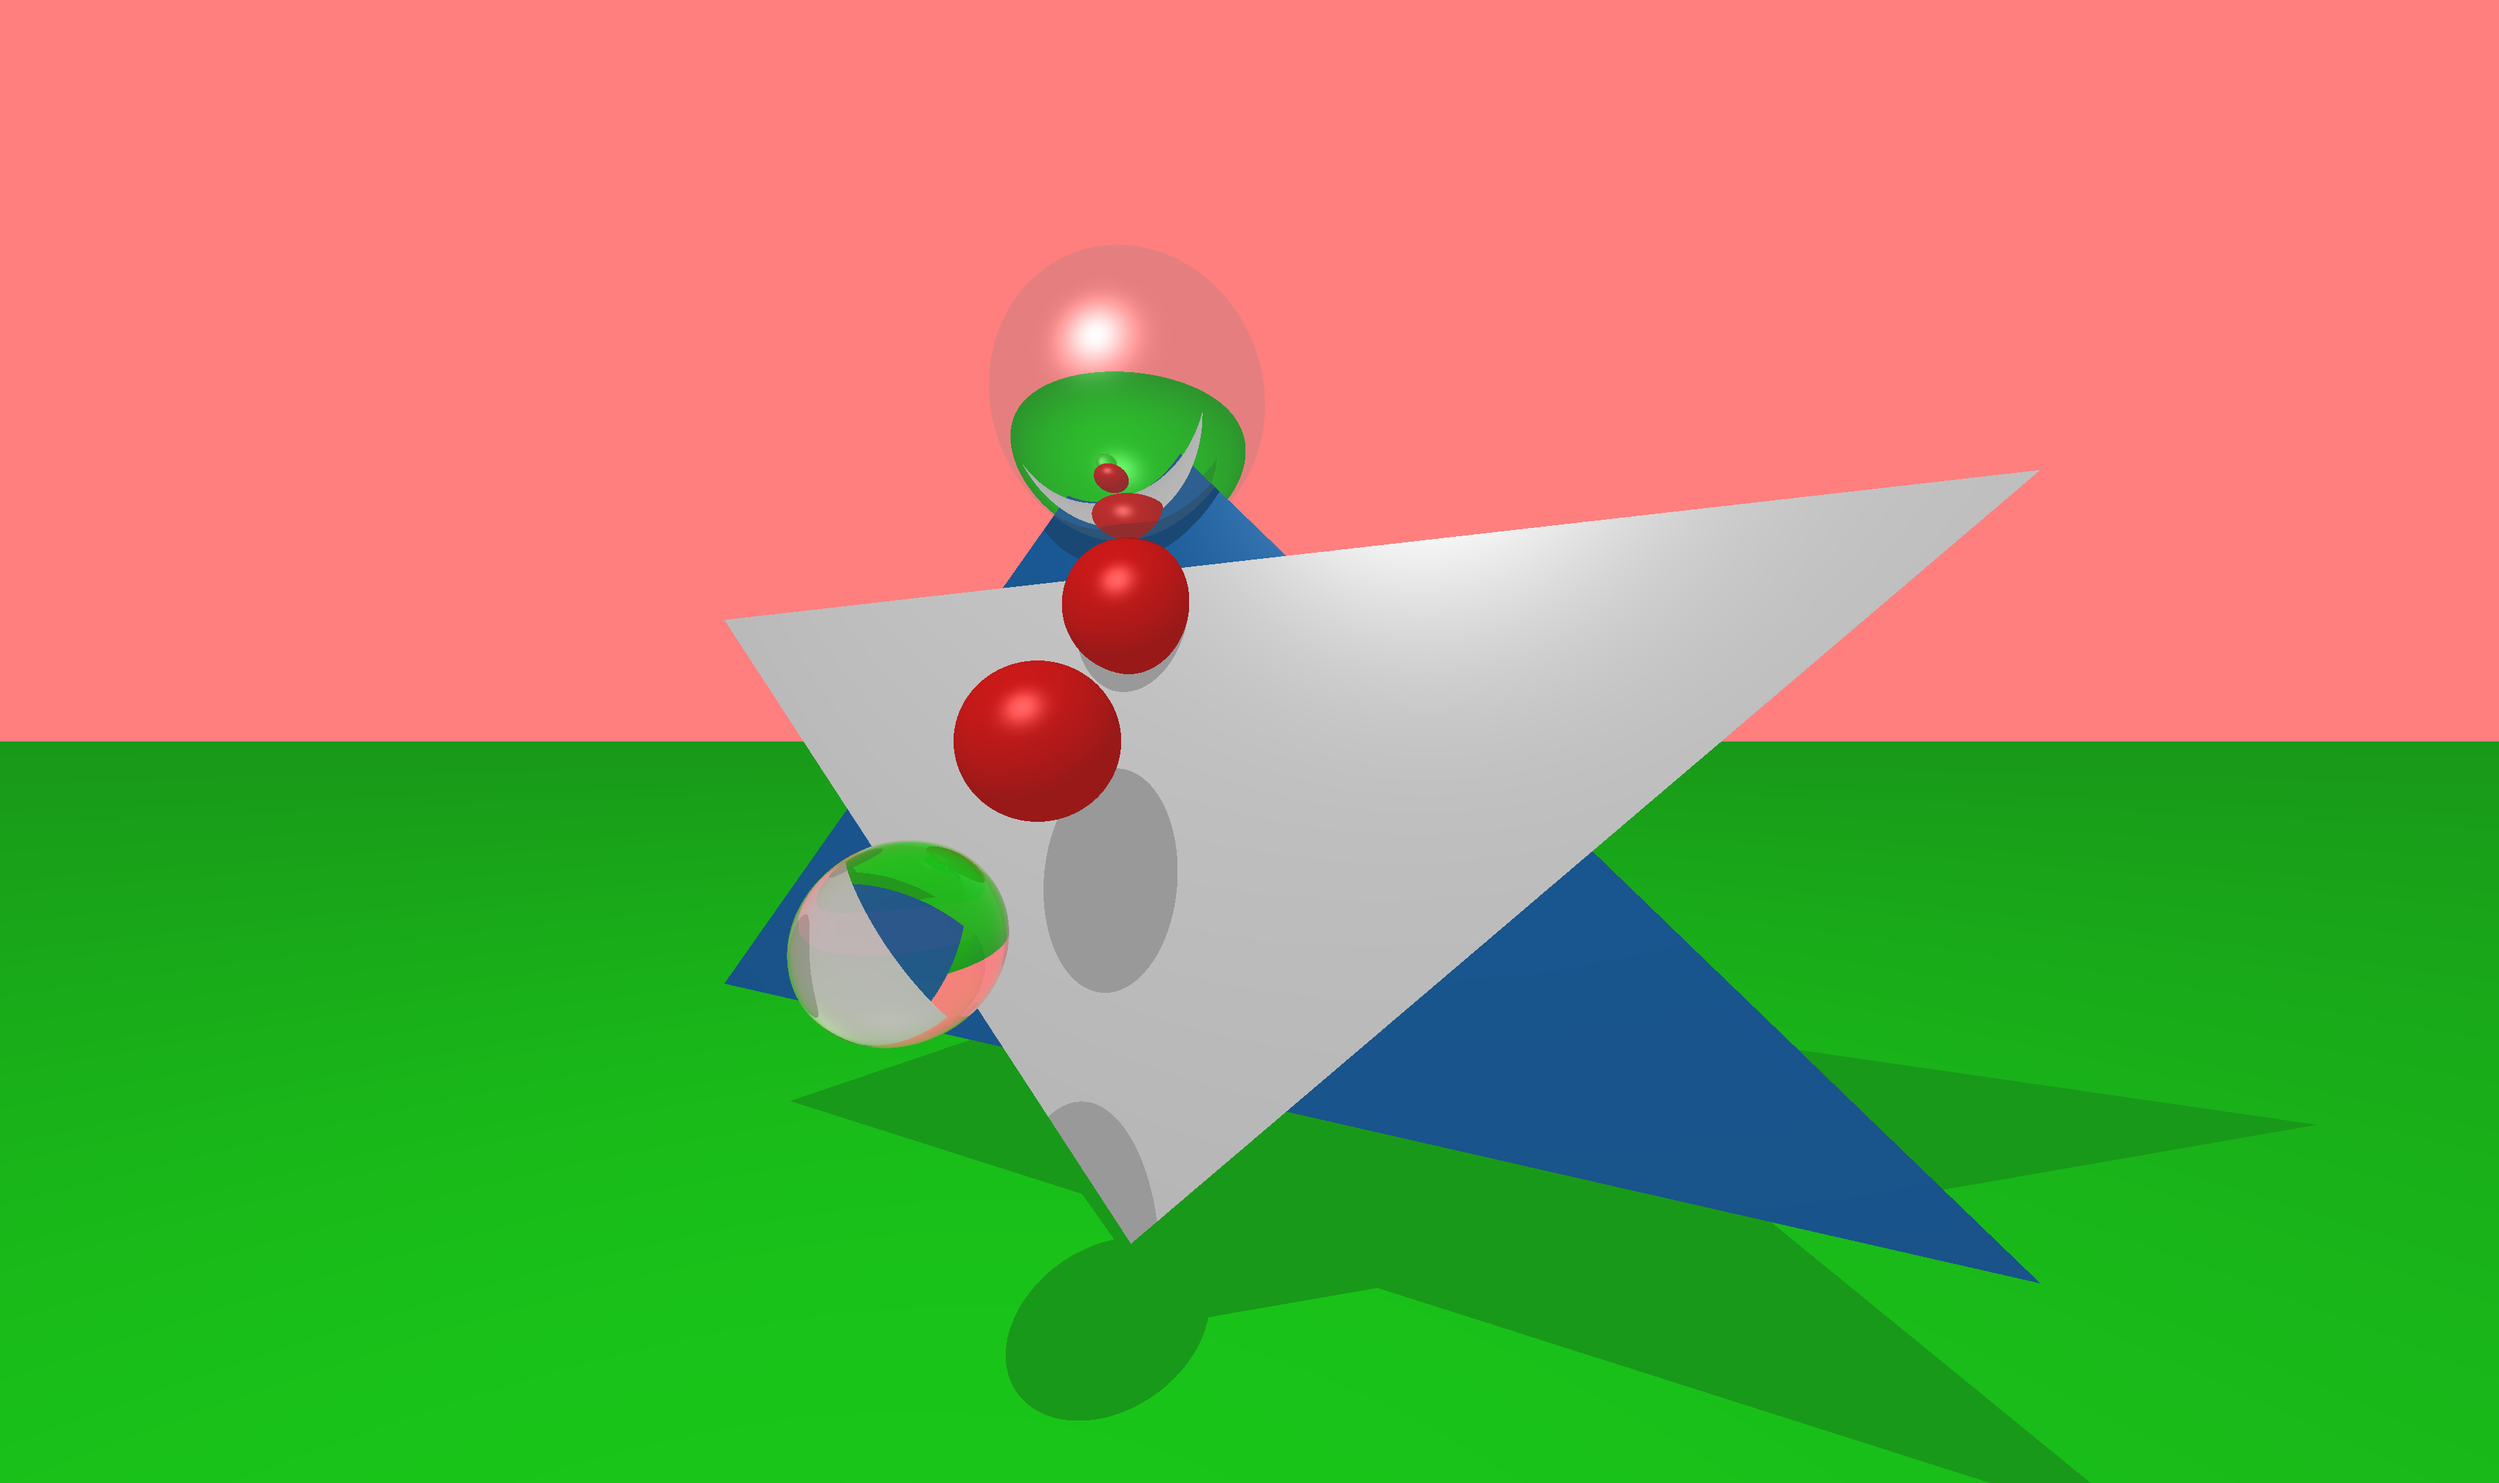
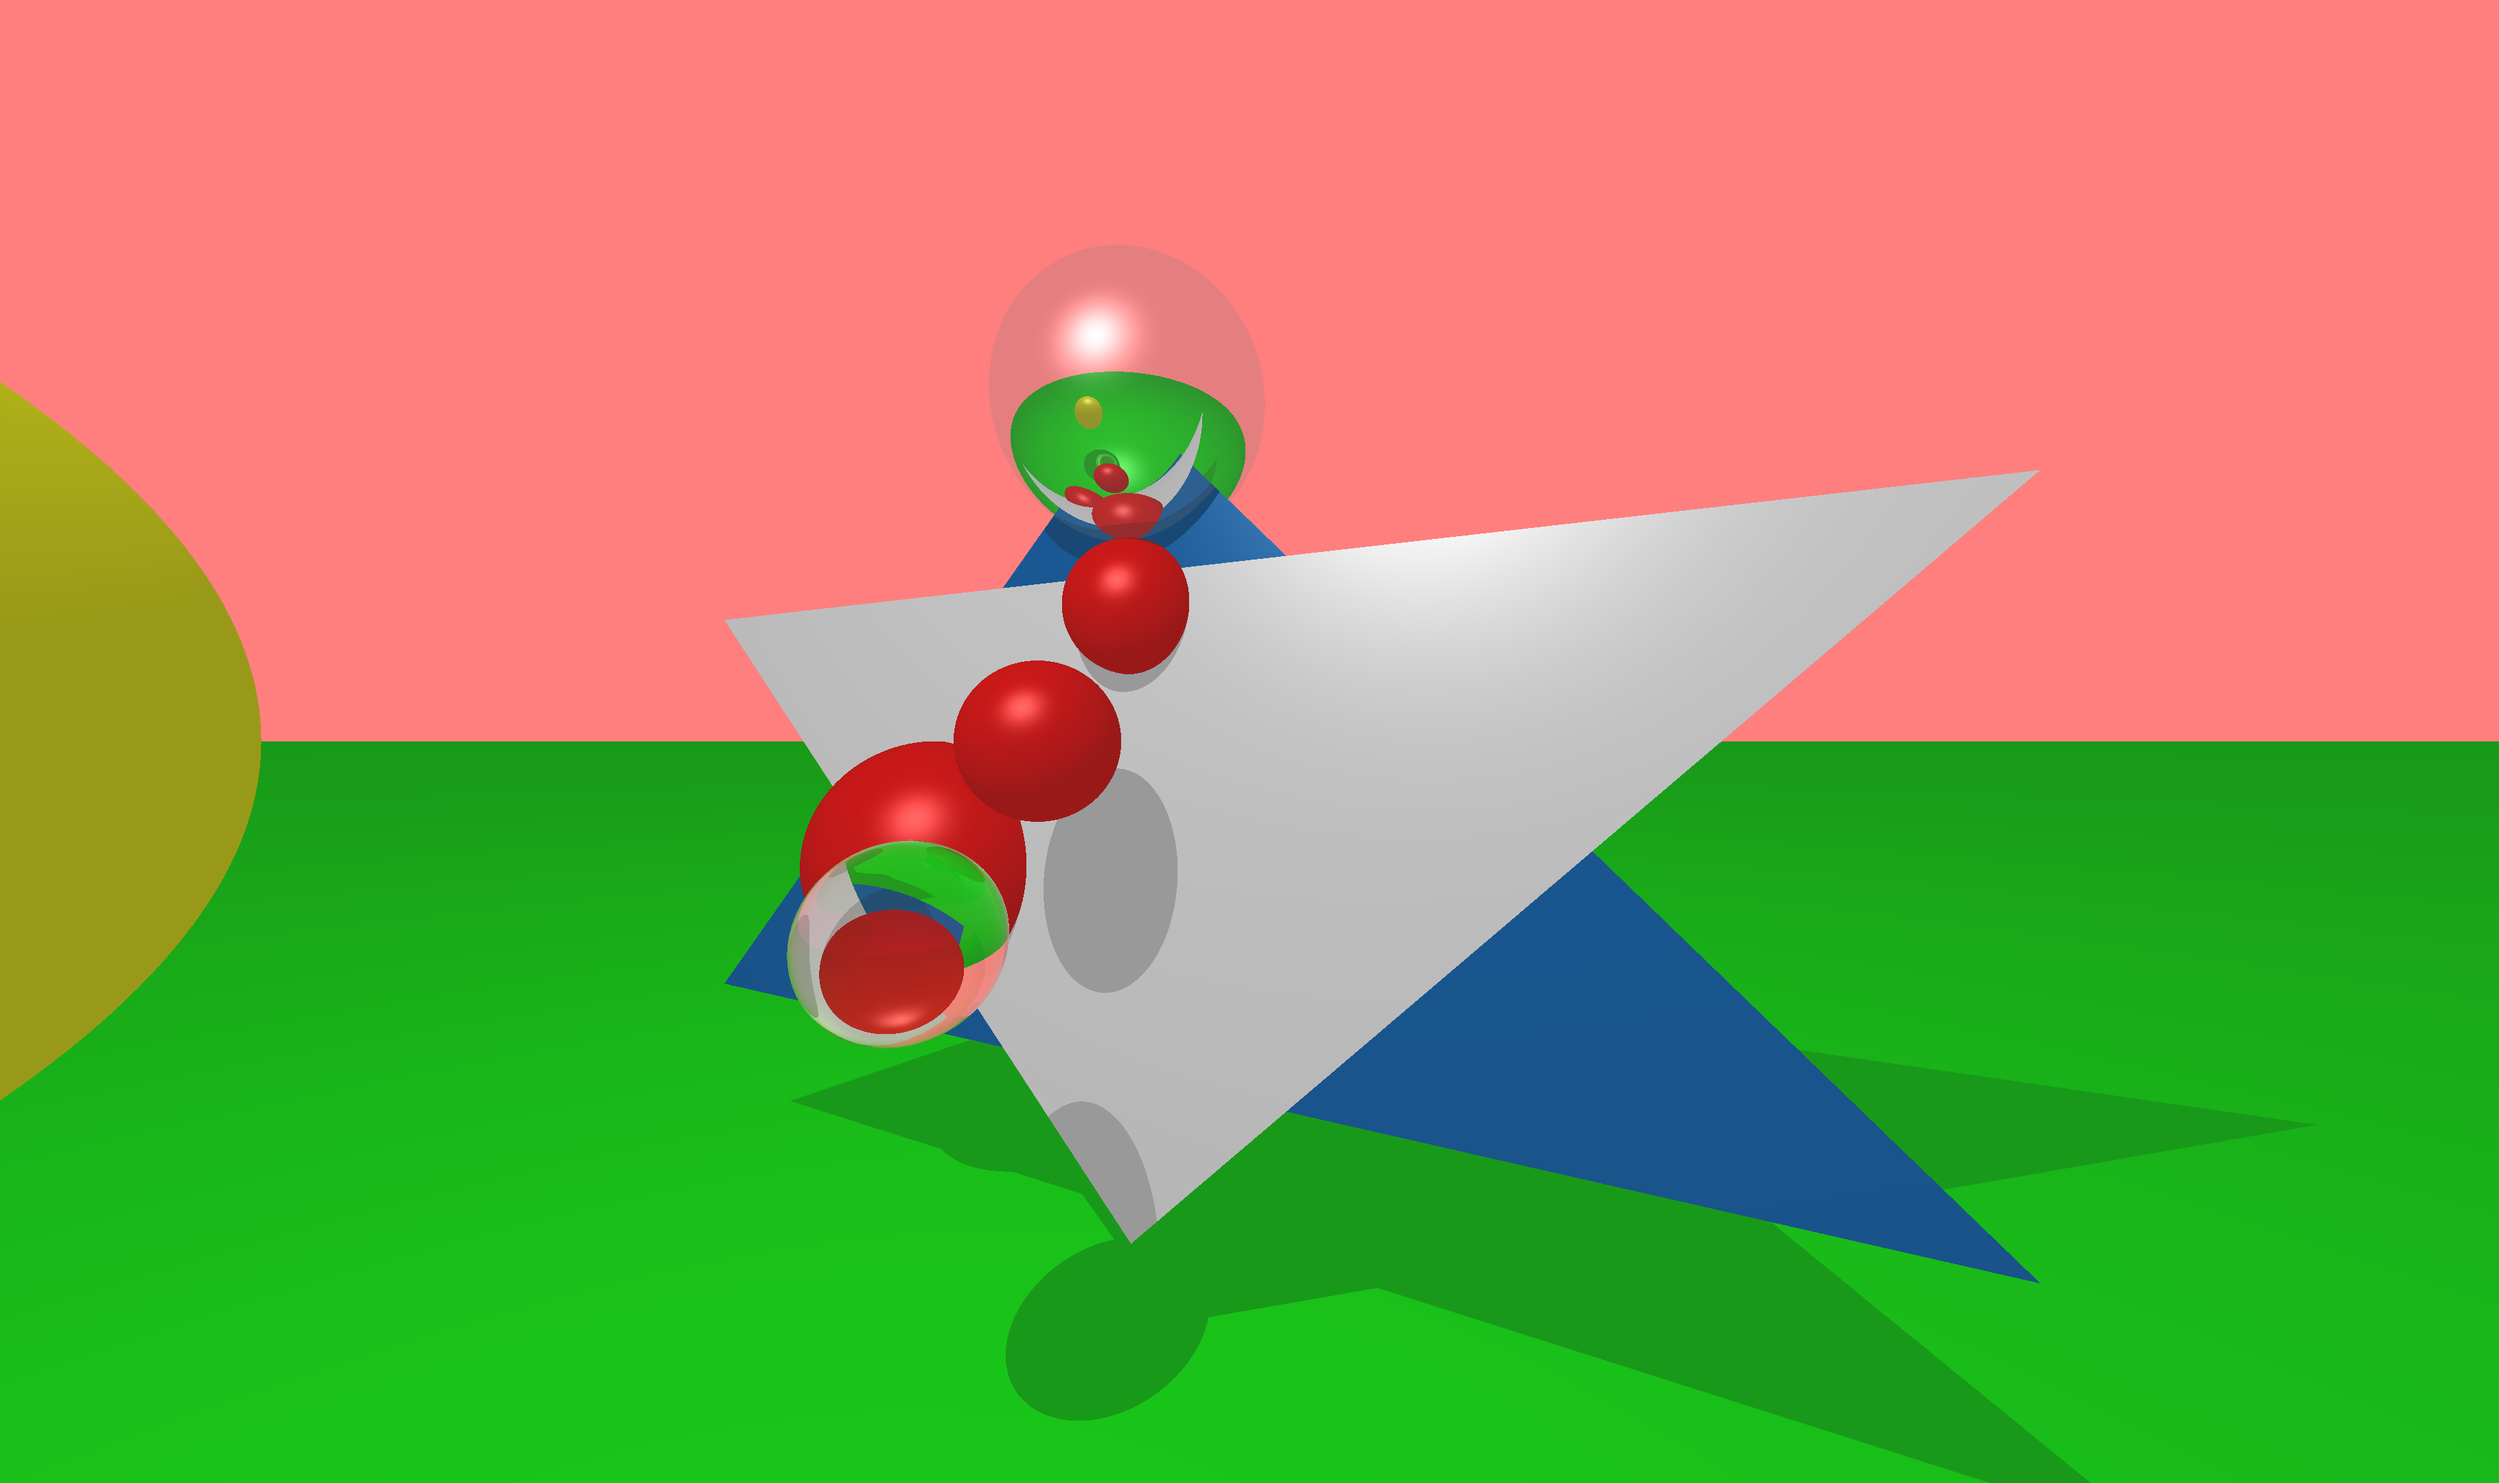
generic instancing

diff --git a/src/main.rs b/src/main.rs
@@ -5,8 +5,8 @@ mod utils;
 use std::ffi::CString;
 use crate::exercise1::{Canvas, Scene};
 use crate::raytracing::{
-    Triangle, Plane, Sphere, Light, Camera, LightColor, Material, MaterialType, color::*,
-    raytracer::{Raytracer, Public}
+    Triangle, Plane, Sphere, Light, Camera, LightColor, Material, MaterialType, color::*, Instance,
+    raytracer::{Raytracer, Public},
 };
 use rayon::prelude::*;
 use std::time::Instant;
@@ -22,12 +22,14 @@ fn main() {
         planes: vec![],
         spheres: vec![],
         triangles: vec![],
-        materials: vec![]
+        materials: vec![],
+        instanced_spheres: vec![]
     };
     scene.materials = test_materials();
     scene.planes = test_planes(&scene.materials);
     scene.spheres = test_spheres(&scene.materials);
     scene.triangles = test_triangles(&scene.materials);
+    scene.instanced_spheres = test_instanced_spheres(&scene.materials, &scene.spheres);
 
     let time_start = Instant::now();
     let canvas = paint_scene(&scene);
@@ -218,6 +220,42 @@ fn test_spheres(materials: &[Material]) -> Vec<Sphere> {
             material: materials.iter().find(|&material| {
                 material.name == "reflective"
             }).unwrap()
+        },
+        Sphere {
+            center: glm::vec3(0.0, 0.0, 0.0),
+            radius: 1.0,
+            material: materials.iter().find(|&material| {
+                material.name == "some_shiny_yellow"
+            }).unwrap()
+        }
+    ]
+}
+
+fn test_instanced_spheres<'a>(materials: &'a[Material], spheres: &'a[Sphere]) -> Vec<Instance<'a, 'a, Sphere<'a>>> {
+    let offset = glm::vec3(-2.0, -1.0, -5.0);
+    let orientation = glm::vec3(0.0, 0.0, 0.0);
+    let scale = glm::vec3(1.0, 1.0, 1.0);
+
+    use raytracing::transform::*;
+
+    let rotation_scale_transform = matrix::scaling(&scale) * matrix::rotation(orientation.y, orientation.x, orientation.z);
+    let rotation_scale_transform_inverse = glm::inverse(&rotation_scale_transform);
+
+    let model_transform = matrix::model(&offset, &orientation, &scale);
+    let model_transform_inverse = glm::inverse(&model_transform);
+
+    let material_override = materials.iter().find(|&material| {
+        material.name == "some_shiny_red"
+    });
+
+    vec![
+        Instance {
+            primitive: &spheres[4],
+            rotation_scale: rotation_scale_transform,
+            rotation_scale_inverse: rotation_scale_transform_inverse,
+            model: model_transform,
+            model_inverse: model_transform_inverse,
+            material_override
         }
     ]
 }

diff --git a/src/raytracing/intersect.rs b/src/raytracing/intersect.rs
@@ -1,4 +1,4 @@
-use crate::raytracing::{Ray, Hitpoint, Sphere, Plane, Triangle, Material, AABB};
+use crate::raytracing::{Ray, Hitpoint, Sphere, Plane, Triangle, Material, AABB, Instance};
 use crate::utils;
 use num_traits::identities::Zero;
 use num_traits::Signed;
@@ -197,6 +197,43 @@ impl Intersect for AABB {
 
         _t = tmin;
         Some(())
+    }
+}
+
+impl<'primitive, 'material, Primitive> Intersect for Instance<'primitive, 'material, Primitive>
+where Primitive: Intersect<Result=Hitpoint<'material>> {
+    type Result = Primitive::Result;
+
+    fn intersect(&self, ray: &Ray) -> Option<Self::Result>{
+        let transform = |vec: &glm::Vec3, mat: &glm::Mat4| -> glm::Vec3 {
+            let homogeneous_transformed = *mat * vec.extend(1.0);
+            // no perspective divide needed as we're only using translate, scale & rotate
+            homogeneous_transformed.truncate(3)
+        };
+
+        // transform ray into model-local coordinate-system
+        let transformed_origin = transform(&ray.origin, &self.model_inverse);
+        let transformed_direction = glm::normalize(
+            transform(&ray.direction, &self.rotation_scale_inverse)
+        );
+        let transformed_ray = Ray { origin: transformed_origin, direction: transformed_direction };
+
+        let mut hitpoint = self.primitive.intersect(&transformed_ray)?;
+        // transform hitpoint back into world-local coordinate-system
+        hitpoint.position = transform(&hitpoint.position, &self.model);
+        hitpoint.hit_normal = glm::normalize(
+            transform(&hitpoint.hit_normal, &self.rotation_scale)
+        );
+        hitpoint.position_for_refraction = transform(&hitpoint.position_for_refraction, &self.model);
+
+        let t_in_world = glm::distance(ray.origin, hitpoint.position);
+        hitpoint.t = t_in_world;
+
+        // TODO: Why does this work with both ```ref material``` and ```material```?
+        if let Some(material) = self.material_override {
+            hitpoint.material = material;
+        }
+        Some(hitpoint)
     }
 }
 

diff --git a/src/exercise1/scene.rs b/src/exercise1/scene.rs
@@ -1,4 +1,4 @@
-use crate::raytracing::{self, Ray, Hitpoint, Sphere, Plane, Triangle, Light, Camera, Material};
+use crate::raytracing::{self, Ray, Hitpoint, Sphere, Plane, Triangle, Light, Camera, Material, Instance};
 use crate::raytracing::color::ColorRgb;
 
 pub struct Scene<'a> {
@@ -8,6 +8,7 @@ pub struct Scene<'a> {
     pub planes: Vec<Plane<'a>>,
     pub spheres: Vec<Sphere<'a>>,
     pub triangles: Vec<Triangle<'a>>,
+    pub instanced_spheres: Vec<Instance<'a, 'a, Sphere<'a>>>,
 
     pub materials: Vec<Material>
 }
@@ -58,6 +59,9 @@ impl<'a> raytracing::Intersect for Scene<'a> {
         }
         for triangle in &self.triangles {
             check_hitpoint(triangle.intersect(ray));
+        }
+        for instanced_sphere in &self.instanced_spheres {
+            check_hitpoint(instanced_sphere.intersect(ray));
         }
 
         closest_hitpoint

diff --git a/src/raytracing/instance.rs b/src/raytracing/instance.rs
@@ -1,0 +1,10 @@
+use crate::raytracing::{Material, Intersect};
+
+pub struct Instance<'primitive, 'material, Primitive: Intersect> {
+    pub primitive: &'primitive Primitive,
+    pub rotation_scale: glm::Mat4,
+    pub rotation_scale_inverse: glm::Mat4,
+    pub model: glm::Mat4,
+    pub model_inverse: glm::Mat4,
+    pub material_override: Option<&'material Material>
+}

diff --git a/src/raytracing/mod.rs b/src/raytracing/mod.rs
@@ -26,3 +26,6 @@ pub use material::*;
 pub mod raytracer;
 
 pub mod color;
+
+mod instance;
+pub use instance::*;
